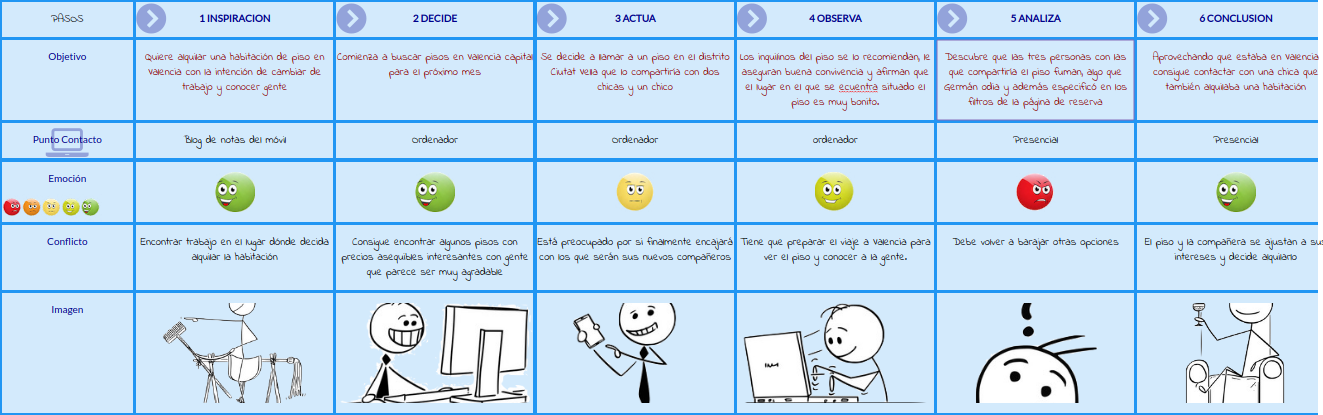
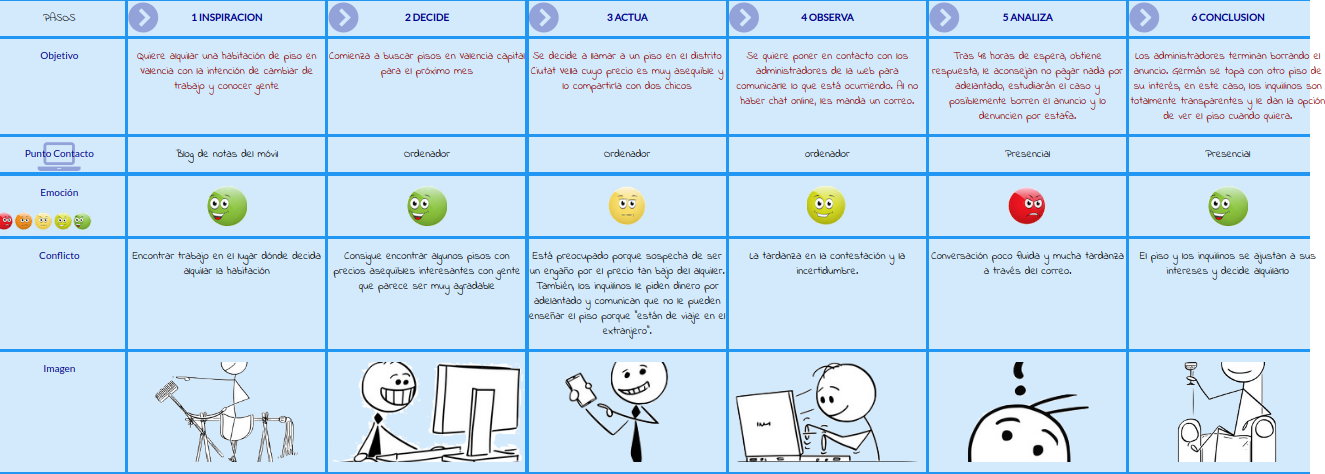
Añadido JM de Germán

diff --git a/P1/ficheros plantilla/Journey.js b/P1/ficheros plantilla/Journey.js
@@ -55,38 +55,42 @@ angular.module("angular", [])
                 
                 /*** PASO #3: ACTUA ***/ 
                 
-                goal3: "Se decide a llamar a un piso en el distrito Ciutat Vella que lo compartiría con dos chicas y un chico",
+                goal3: "Se decide a llamar a un piso en el distrito Ciutat Vella" 
+                +" cuyo precio es muy asequible y lo compartiría con dos chicos",
                 touch3: "Ordenador",
                 feel3: "3",
-                con3: "Está preocupado por si finalmente encajará con los que serán sus nuevos compañeros",
+                con3: "Está preocupado porque sospecha de ser un engaño por el precio tan bajo del alquiler."+ 
+                " También, los inquilinos le piden dinero por adelantado y comunican que no le pueden" + 
+                " enseñar el piso porque \"están de viaje en el extranjero\".",
                 ima3: "cartoon-phone.png",
                 
                 /*** PASO #4: OBSERVA ***/ 
                 
-                goal4: "Los inquilinos del piso se lo recomiendan, le aseguran buena convivencia y afirman que" +
-                " el lugar en el que se ecuentra situado el piso es muy bonito.",
+                goal4: "Se quiere poner en contacto con los administradores de la web" + 
+                " para comunicarle lo que está ocurriendo. Al no haber chat online, les manda un correo.",
                 touch4: "ordenador",
                 feel4: "4",
-                con4: "Tiene que preparar el viaje a Valencia para ver el piso y conocer a la gente.",
+                con4: "La tardanza en la contestación y la incertidumbre.",
                 ima4: "cartoon-PCtyping.png",
                 
                  /*** PASO #5: ANALIZA ***/ 
                 
-                goal5: "Descubre que las tres personas con las que compartiría el piso fuman, " +
-                "algo que Germán odia y además especificó en los filtros de la página de reserva",
+                goal5: "Tras 48 horas de espera, obtiene respuesta, le aconsejan no pagar nada por adelantado" +
+                ", estudiarán el caso y posiblemente borren el anuncio y lo denuncien por estafa.",
                 touch5: "Presencial",
                 feel5: "1",
-                con5: "Debe volver a barajar otras opciones",
+                con5: "Conversación poco fluida y mucha tardanza a través del correo.",
                 ima5: "cartoon-why.png",
                 
                 
                 /*** PASO #6: CONCLUSION ***/ 
                 
-                goal6: "Aprovechando que estaba en Valencia consigue contactar " + 
-                "con una chica que también alquilaba una habitación",
+                goal6: "Los administradores terminan borrando el anuncio. Germán se topa con otro piso" +
+                " de su interés, en este caso, los inquilinos son totalmente transparentes y le dan la " + 
+                "opción de ver el piso cuando quiera.",
                 touch6: "Presencial",
                 feel6: "5",
-                con6: "El piso y la compañera se ajustan a sus intereses y decide alquilarlo",
+                con6: "El piso y los inquilinos se ajustan a sus intereses y decide alquilarlo",
                 ima6: "cartoon-resting.png",
                 
 			},

diff --git a/P1/README.md b/P1/README.md
@@ -46,6 +46,14 @@ Por último, también hemos creado a **Eva**, la cual es una persona más madura
 ![Método UX](../img/JourneyMap.png) 1.c User Journey Map
 ----
 
+##### "Cuidado con los estafadores".
+
+La experiencia de Germán, se ha escogido para reflejar el problema que puede suponer el no tener un chat online
+para mantenerte en contacto con los administradores de la web.
+Germán se topa con una muy buena oferta de alquiler, pero le piden dinero por adelantado y los inquilinos
+se muestran reacios a enseñarle el piso.
+
+En este caso Germán es cauto y decide no pagar nada sin consultar a los administradores sobre la posible estafa. La demora en la contestación vía correo por parte de los administradores podría haber provocado que otra gente hubiera sido estafada.
 
 ![](https://github.com/sergiovp/DIU/blob/master/P1/images/jmgerman.png)
 
